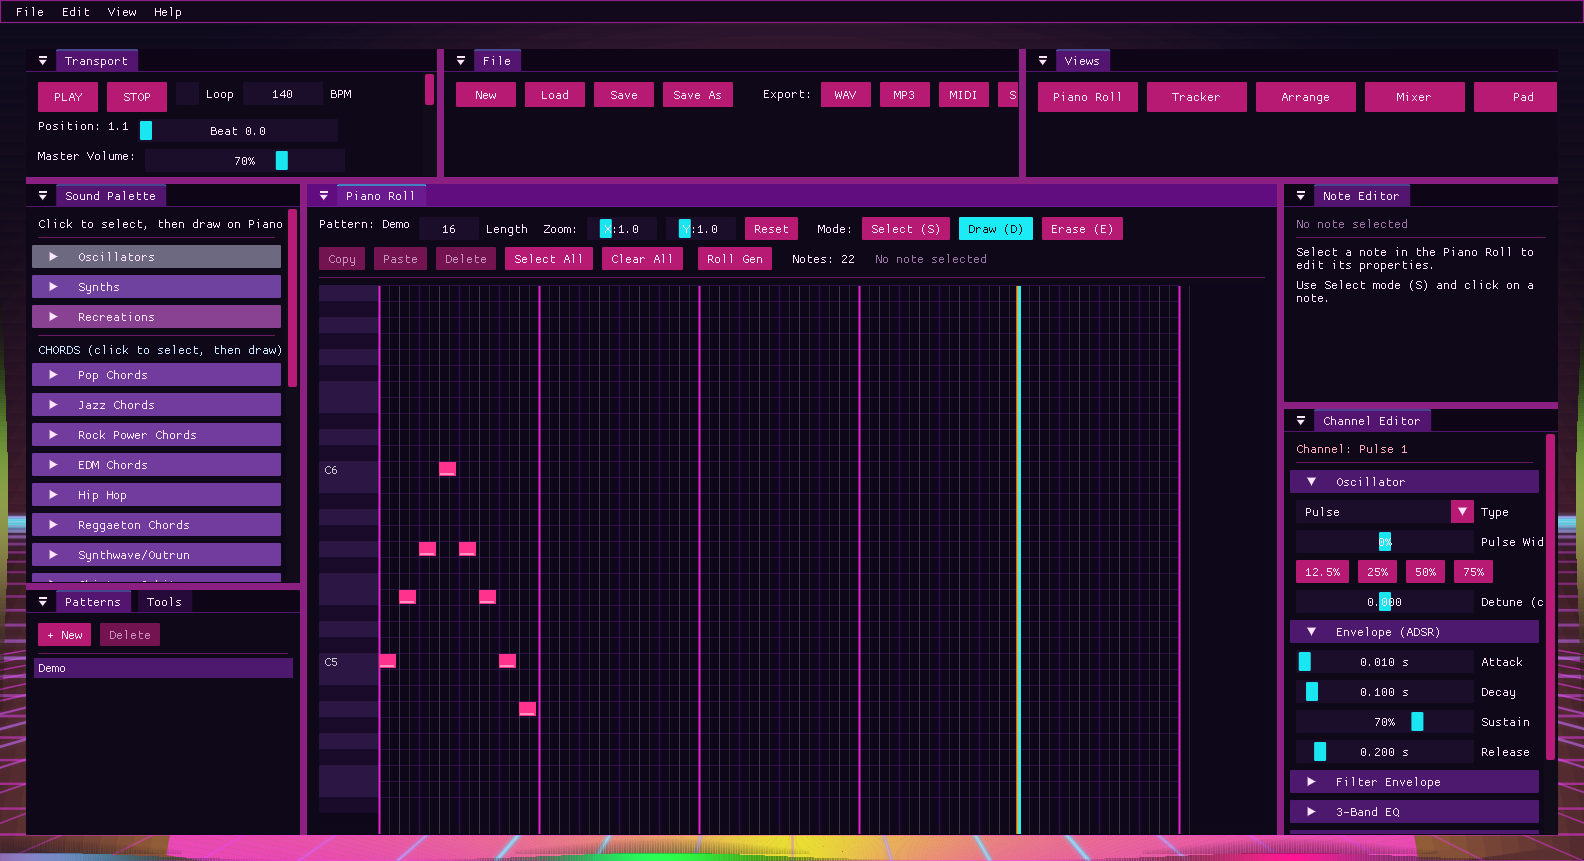
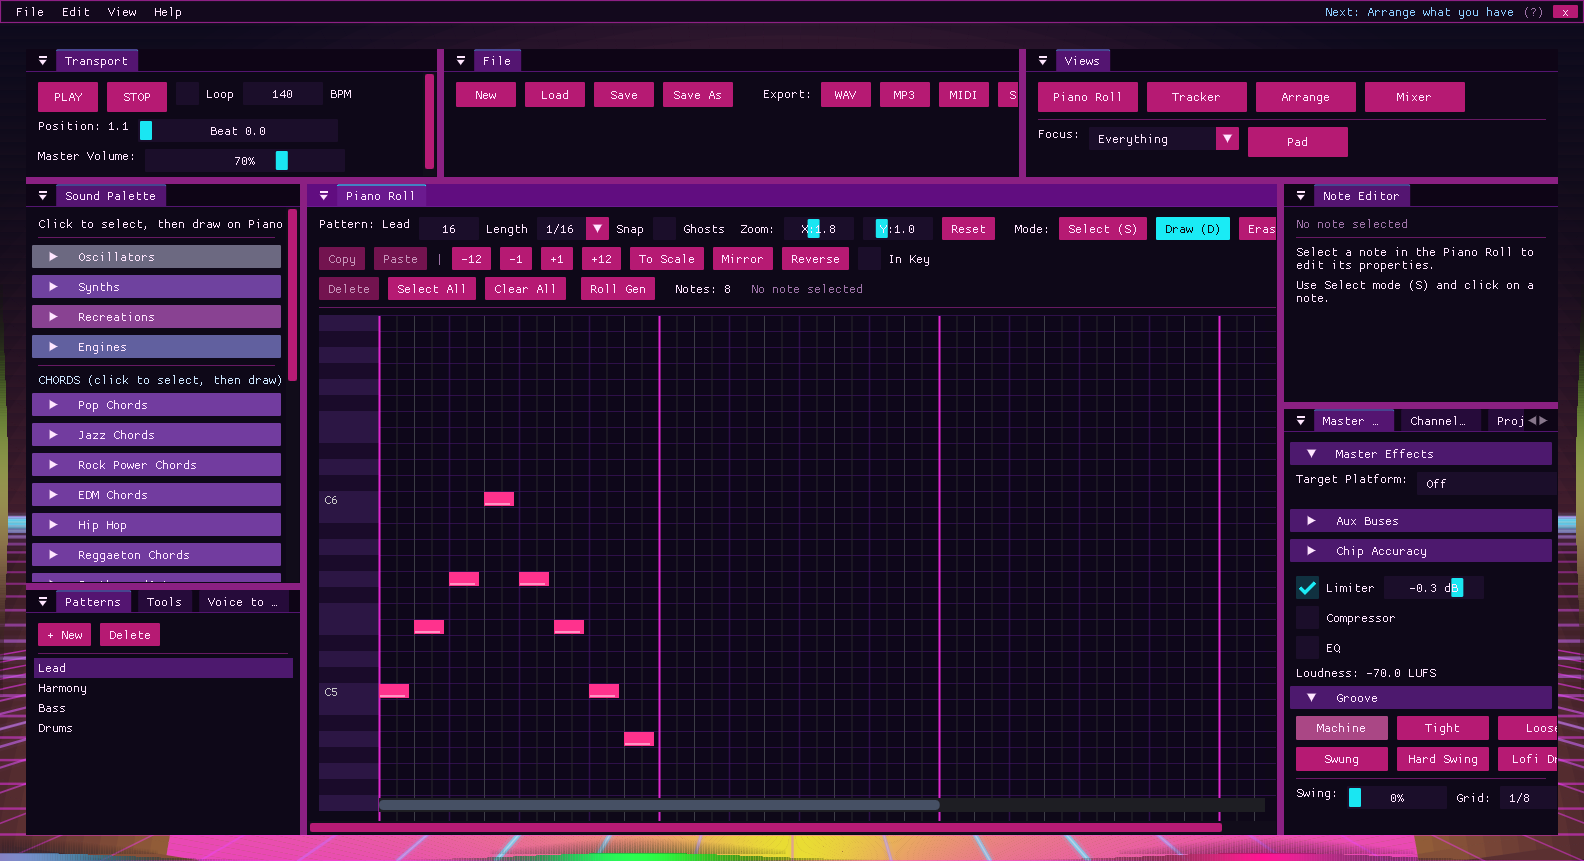
Changelog and gallery for 3.7 and 3.8
The changelog stopped at 3.6.0 - two releases went by without an entry - and
the gallery had one image per feature and then the same two releases went
past it, so the README showed a program with no engines, no audio clips, no
song structure and no check panel.

Eleven new shots and all 39 regenerated against the current build. The piano
roll blurb still said sixty-five instruments across four categories, which
stopped being the shape of the program in 3.7.

Claude-Session: https://claude.ai/code/session_01KQkTF4qpzpsYfvx789N3hZ

diff --git a/CHANGELOG.md b/CHANGELOG.md
@@ -7,6 +7,149 @@ and this project uses [Semantic Versioning](https://semver.org/spec/v2.0.0.html)
 
 ---
 
+## [3.8.0] - 2026-08-31 - "Check"
+
+Two things this release is about: testing the UI without a window, and
+telling the user when a setting is switched on and doing nothing.
+
+### Added
+
+- **Headless GUI testing.** An ImGui context with a built font atlas, a fake
+  display and no backend at all, driving the real panel code through real
+  frames as part of the headless suite. It catches three things the
+  rendering smoke test cannot: **ID stack imbalance** (a `PushID` without its
+  `PopID` corrupts every widget ID after it, so unrelated controls silently
+  share state - two sliders that move together, a checkbox that toggles its
+  neighbour), **`Begin`/`End` imbalance** (which breaks every panel drawn
+  afterwards, not just the guilty one), and **NaN geometry** (which a GPU
+  discards silently, so a rendering test still sees a plausible frame while
+  a control has vanished).
+- **Click testing.** Real `ImGuiIO` mouse events through real widgets. A
+  click is three frames - move and press, hold, release - because ImGui
+  reports it on release and only if the press landed on the same widget;
+  doing it in fewer silently does nothing, which is how a naive attempt at
+  this passes while testing nothing. Widget positions come from ImGui via a
+  probe frame rather than being guessed, so the tests do not quietly stop
+  hitting anything when a layout moves. Coverage: thirteen panels, seven
+  engine editors, five display sizes from 320x240 to 3840x2160, eight genre
+  focuses, ten themes, and clicks and drags.
+- **Project Check.** Validation asks "could this crash". This asks whether
+  the project is quietly not doing what its owner thinks. Every finding is a
+  setting that is legal, saved, displayed as enabled, and has no effect - or
+  silently cancels something else: a send into a muted bus, an effect on
+  with its mix at zero, a modulation route pointing at an engine the channel
+  is not running, a soloed channel three screens away that is why nothing
+  else is audible. Each says what, why and what to do, and there is a test
+  that none of them is missing a part.
+
+### Changed
+
+- **The genre focus now covers the instrument engines.** Chiptune is shown
+  wavetable and FM - the Game Boy's wave channel and the Mega Drive's
+  YM2612 - and not the multisample sampler, which is the one thing that era
+  could not do. Hip hop is the reverse. Same rule as the rest of the focus
+  system: a filter on attention, never on capability, with the Type menu
+  still listing everything and the hidden count reporting honestly.
+- **The Channel Editor is reorganised.** Its Oscillator section had grown to
+  850 lines holding every engine plus the modulation matrix, with the noise
+  controls stranded 800 lines below the other basic settings because each
+  new engine was appended in front of them. Separate headers now:
+  Oscillator, the engine in use, and Modulation.
+- **`Theme` gained a `Count` sentinel** like every other enum here, so the
+  tests stop carrying a hand-written list of all ten.
+- **`docs/TEST_PLAN.md` gaps list rewritten.** It named a synthetic input
+  harness as "the single biggest remaining gap"; that is closed. What
+  remains is the custom-drawn editors - piano roll, arrangement, pad - which
+  hit-test canvas coordinates inside an `InvisibleButton` rather than using
+  ImGui widgets.
+
+### Fixed
+
+- **Project Check's suggested-fix line was clipped rather than wrapped.**
+  `TextColored` does not wrap, and the fix is the half of a finding the user
+  actually needs.
+
+### Testing
+
+3685 checks across 82 groups, 57 UI rendering cases. Every genre starter
+template and every quick-start kit is asserted to produce no audit findings
+at all - a panel that always has something in it is one everybody learns to
+ignore, at which point it is worse than not having it.
+
+---
+
+## [3.7.0] - 2026-08-31 - "Instruments"
+
+Five configurable instrument engines, a modulation matrix, audio on the
+timeline, and song structure. Everything here defaults to off or absent, so
+an existing project sounds exactly as it did.
+
+### Added
+
+- **Wavetable synthesis.** The editor had existed for a long time and drove
+  nothing - the "Custom" oscillator ran `generateTriangle()`, so you could
+  draw a waveform, watch the preview redraw, save it, reopen it, and hear a
+  triangle. There is a real engine now, band-limited with mipmapped tables
+  so a drawn square played three octaves up is dull rather than full of
+  alias tones descending as the note ascends.
+- **Six-operator FM.** A full routing matrix rather than a numbered list of
+  algorithms, feedback, and a separate envelope per operator - which is
+  where FM's expressiveness actually lives. Modulation is applied to phase,
+  not frequency; feedback averages the last two samples, not the last one.
+  Both are the standard mistakes and both are tested.
+- **Multisample sampler.** Key zones, velocity layers and round-robin, so
+  repeated hits do not comb-filter against each other.
+- **Granular synthesis.** Grain size, density, spray, pitch scatter, reverse
+  chance and window shape. Freeze the read position for a drone that holds
+  one moment without moving its pitch.
+- **Modelled drums.** The editable version of the 21 fixed drum voices, built
+  the way the analogue circuits were: the kick's pitch sweep, the snare's
+  shell-versus-rattle balance, the 808 hat's six inharmonic squares.
+- **Modulation matrix.** Nine sources to nine destinations, per-voice LFOs
+  and a second envelope so held notes do not wobble in lockstep, plus
+  per-channel polyphony limits and pitch-bend range.
+- **Audio clips on the timeline.** Recorded or imported audio on a channel,
+  running through that channel's volume, pan, effects and sends like
+  anything else.
+- **Tempo and time-signature changes**, markers and regions. Beat-to-seconds
+  is a piecewise integral now; bars are counted through the meter map rather
+  than found with a modulo.
+- **Voice to notes.** Sing or beatbox and get notes, live or from a recorded
+  take. The capture callback fills a lock-free ring and does nothing else.
+- **Pitch shift, formant shift and autotune** - a phase vocoder - plus an
+  offline time stretch wired to audio clips as "Fit to Clip".
+- **Starting points for every engine**, since picking one otherwise gave you
+  a single sound and sixty-odd parameters.
+
+### Fixed
+
+Four bugs, all older than the work that found them:
+
+- **Sample playback was a semitone and a half sharp.** The read step never
+  accounted for the 48 kHz pool against the 44.1 kHz engine, so every sample
+  instrument was out of tune with the synths.
+- **The per-channel filter cutoff and resonance did nothing.** `process()`
+  reads cached coefficients and only `setCutoff()` recomputed them, so the
+  filter ran at its 1000 Hz default wherever the slider was.
+- **The filter went unstable above about 7 kHz** once that was fixed,
+  producing NaN - silence for the rest of the session. It had never
+  surfaced because the first bug pinned the cutoff.
+- **MIDI export wrote the wrong time signature**, `x/2` rather than `x/4`, so
+  any DAW importing one saw bars of twice the intended length.
+- **The loop ruler was unreachable** after the channel count went to 32: it
+  was positioned below the last lane, roughly 960px down.
+- **The Channel Editor's type dropdown selected the wrong instrument.** Six
+  names indexed straight into an enum whose sixth entry is `Supersaw`, not
+  `Custom`.
+- **Five engines were invisible in the Sound Palette**, which drew types 0 to
+  64 and stopped.
+
+### Testing
+
+3604 checks, 55 UI cases at the close of this release.
+
+---
+
 ## [3.6.0] - 2026-08-30 - "Welcome"
 
 The research pass was unambiguous about how projects die: a blank page nobody

diff --git a/README.md b/README.md
@@ -23,8 +23,8 @@ change rather than going stale.
 ### Piano roll
 
 Draw notes directly, or place whole chords and drum patterns from the sound
-palette. Sixty-five instruments across oscillators, synths, drums and genre
-kits.
+palette. Sixty-seven instruments across oscillators, synths, drums and genre
+kits, plus five configurable engines of their own.
 
 ![Piano roll](docs/images/piano-roll.png)
 
@@ -99,6 +99,74 @@ MPC-style pads for playing drums and auditioning sounds live.
 | Parameter automation | MIDI input |
 |---|---|
 | ![Automation](docs/images/automation.png) | ![MIDI input](docs/images/midi-input.png) |
+
+### Instrument engines
+
+Five engines with editors of their own, found under **Engines** in the sound
+palette. Each opens with a short row of starting points rather than sixty
+parameters and no idea where to begin.
+
+| Six-operator FM | Multisample sampler |
+|---|---|
+| ![FM](docs/images/engine-fm.png) | ![Sampler](docs/images/engine-sampler.png) |
+
+| Granular | Modelled drums |
+|---|---|
+| ![Granular](docs/images/engine-granular.png) | ![Drum model](docs/images/engine-drums.png) |
+
+The palette section they live in, and what a genre focus does to it —
+chiptune is shown the wavetable and FM engines, and not the sampler.
+
+![Engines in the palette](docs/images/palette-engines.png)
+
+### Modulation
+
+Nine sources to nine destinations, with per-voice LFOs so held notes do not
+wobble in lockstep. This is what makes the engines worth having: a wavetable
+whose morph never moves is a sampled waveform.
+
+![Modulation matrix](docs/images/mod-matrix.png)
+
+### Audio on the timeline
+
+Recorded or imported audio on a channel, drawn as its own waveform and
+running through that channel's volume, pan, effects and sends like anything
+else. A clip whose file has moved keeps its place and its edits and says so.
+
+![Audio clips](docs/images/audio-clips.png)
+
+### Song structure
+
+Tempo and time-signature changes, markers and regions. Bar lines follow the
+meter map rather than a modulo, and Snap-to-Bar walks the same function the
+ruler draws.
+
+![Song structure](docs/images/song-structure.png)
+
+### Voice to notes
+
+Sing a line or beatbox a groove and get notes — live as you make them, or
+from a recorded take. The capture callback fills a lock-free ring and does
+nothing else; every FFT happens off the audio thread.
+
+![Voice to notes](docs/images/voice-to-notes.png)
+
+### Pitch and time
+
+A phase vocoder: pitch shift, formant shift and autotune. Formant shifting
+moves the resonances *without* moving the notes, which is the difference
+between transposing a voice and turning it into a chipmunk.
+
+![Pitch and time](docs/images/pitch-time.png)
+
+### Project Check
+
+Settings that are switched on and doing nothing, or silently cancelling
+something else — a send into a muted bus, an effect with its mix at zero, a
+soloed channel that is why nothing else is audible. It reports and never
+changes anything.
+
+![Project Check](docs/images/project-check.png)
 
 ### Workspaces
 
